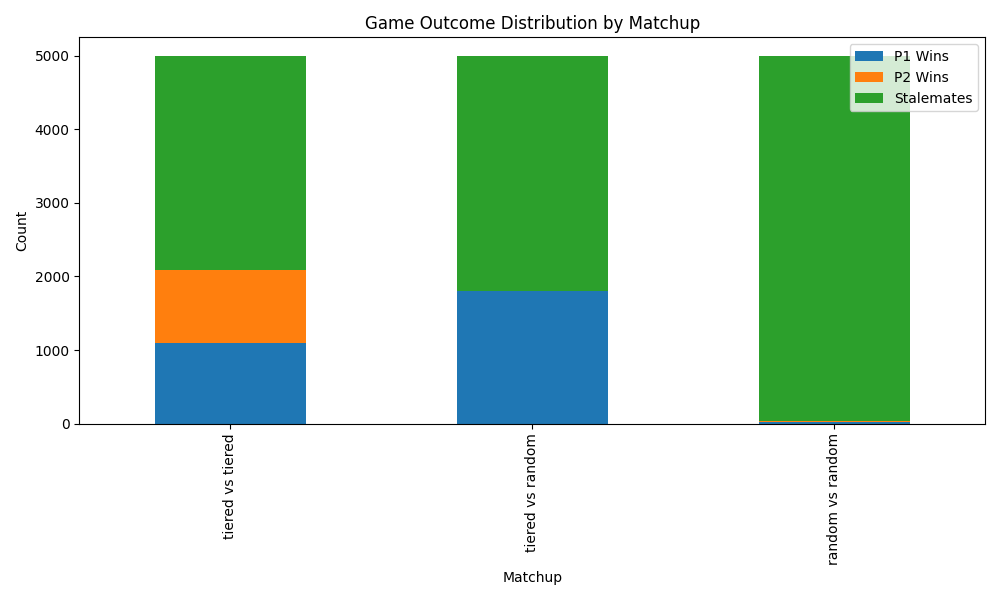
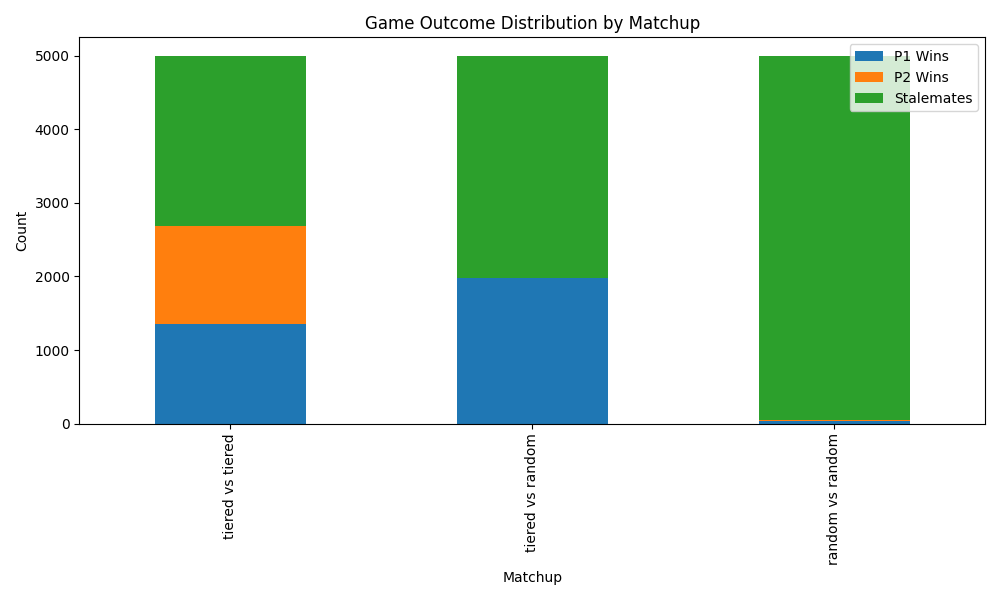
Update Volta ao Mundo simulation rules
- Reduced Orientação card count from 14 to 10.
- Removed requirement for Orientação to move generally (still needed for Perdido cure).
- Re-ran simulation and updated results/plots.
- Updated unit tests to verify new movement rules.

diff --git a/test_volta.py b/test_volta.py
@@ -8,84 +8,60 @@ class TestVoltaAoMundo(unittest.TestCase):
         self.game.p1.hand = []
         self.game.p2.hand = []
 
-    def test_hazard_application(self):
+    def test_movement_without_orientacao(self):
         p1 = self.game.p1
-        p2 = self.game.p2
+        p1.has_orientacao = False
+        p1.active_hazard = None
+        p1.defenses_active = []
 
-        p1.hand = ['Epidemia']
-        p2.hand = ['1000']
-        p2.defenses_active = []
+        # Should be able to move
+        self.assertTrue(self.game.can_move(p1))
 
-        # Manually invoke turn logic or helper if needed.
-        # But here we can simulate the attack logic by calling the method that handles it?
-        # The new code puts logic inside `take_turn`.
-        # We can test `take_turn` by setting up the state.
-
-        # P1 needs to choose attack.
-        # Tiered strategy: Defense > Cure > Orient > Travel > Attack.
-        # So P1 should attack if no other options.
-        # But P1 needs to draw. `take_turn` draws.
-        # We can mock `draw` to return None so hand doesn't change unexpectedly.
+        p1.hand = ['1000']
         self.game.draw = lambda: None
 
-        self.game.take_turn(p1, p2)
+        # Play 1000
+        self.game.take_turn(p1, self.game.p2)
 
-        self.assertEqual(p2.active_hazard, 'Epidemia')
+        self.assertEqual(p1.distance, 1000)
+
+    def test_perdido_stops_movement(self):
+        p1 = self.game.p1
+        p1.active_hazard = 'Perdido'
+        p1.has_orientacao = False
+
+        self.assertFalse(self.game.can_move(p1))
+
+        # Cure with Orientacao
+        p1.hand = ['Orientacao']
+        # Mock CURES logic in case needed? No, built-in.
+
+        self.game.draw = lambda: None
+
+        # play_cure('Orientacao') should happen
+        self.game.take_turn(p1, self.game.p2)
+
+        self.assertIsNone(p1.active_hazard)
+        # Should be able to move next turn
+        self.assertTrue(self.game.can_move(p1))
+
+    def test_other_hazard_stops_movement(self):
+        p1 = self.game.p1
+        p1.active_hazard = 'Epidemia'
+        self.assertFalse(self.game.can_move(p1))
 
     def test_strict_40k_rule(self):
         p1 = self.game.p1
         p2 = self.game.p2
-
         p1.distance = 38000
-        p1.has_orientacao = True
-        p1.active_hazard = None
-        p1.terrain = 'Civilizada'
-
-        # 3000 would exceed 40000 (38000 + 3000 = 41000) -> Should NOT play
-        # 2000 would fit exactly (40000) -> Should play
 
         p1.hand = ['3000']
         self.game.draw = lambda: None
 
-        # Tiered strategy should NOT play 3000 because it's not a legal move
-        # It should discard instead.
+        # Should discard
         self.game.take_turn(p1, p2)
-
         self.assertEqual(p1.distance, 38000)
-        self.assertEqual(len(self.game.discard), 1)
-        self.assertEqual(self.game.discard[0], '3000')
-
-        # Now give 2000
-        p1.hand = ['2000']
-        self.game.take_turn(p1, p2)
-        self.assertEqual(p1.distance, 40000)
-
-    def test_counter_attack_logic(self):
-        # We need to test if counter attack happens.
-        # P1 attacks P2. P2 has Defense.
-        p1 = self.game.p1
-        p2 = self.game.p2
-
-        p1.hand = ['Epidemia']
-        p2.hand = ['Saude'] # Defense for Epidemia
-        self.game.draw = lambda: None
-
-        # P2 is 'tiered', so `will_counter` is True.
-
-        # We need to mock P2's turn to prevent recursion loop or random actions
-        # But `take_turn` calls `self.take_turn(opponent, player)` for bonus turn.
-        # We can let it run once.
-
-        # To avoid infinite recursion if P2 draws/plays repeatedly, ensure deck is empty or mocked.
-        # Deck is already empty since `draw` returns None.
-
-        self.game.take_turn(p1, p2)
-
-        # P2 should have played Saude out of turn
-        self.assertIn('Saude', p2.defenses_active)
-        self.assertNotIn('Saude', p2.hand)
-        # P2 counter_attacks count should increase
-        self.assertEqual(p2.counter_attacks, 1)
+        self.assertEqual(self.game.discard[-1], '3000')
 
 if __name__ == '__main__':
     unittest.main()

diff --git a/volta_ao_mundo.py b/volta_ao_mundo.py
@@ -6,7 +6,7 @@ import seaborn as sns
 # --- GAME DATA & DEFINITIONS ---
 DECK_COMP_DICT = {
     '1000': 10, '2000': 10, '3000': 10, '4000': 12, '8000': 4,
-    'Orientacao': 14, 'Trabalho': 6, 'Fuga': 6, 'Remedio': 6,
+    'Orientacao': 10, 'Trabalho': 6, 'Fuga': 6, 'Remedio': 6,
     'Perdido': 5, 'Fim do Dinheiro': 3, 'Povos Hostis': 3, 'Epidemia': 3,
     'Civilizada': 5, 'Selvagem': 4, 'Mar': 4, 'Sem Recursos': 3,
     'Saude': 1, 'Diplomacia': 1, 'Riqueza': 1, 'Rotas Alternativas': 1
@@ -54,7 +54,7 @@ class VoltaAoMundoSim:
 
     def can_move(self, player):
         if player.active_hazard: return False
-        if not player.has_orientacao and 'Rotas Alternativas' not in player.defenses_active: return False
+        # Orientacao no longer required to move unless hazard specifically stops you (Perdido logic handled by active_hazard)
         return True
 
     def get_legal_moves(self, player, opponent):
@@ -65,8 +65,11 @@ class VoltaAoMundoSim:
         if player.active_hazard and CURES[player.active_hazard] in player.hand:
             moves.append(('cure', CURES[player.active_hazard]))
 
-        if not player.has_orientacao and not player.active_hazard and 'Rotas Alternativas' not in player.defenses_active:
-            if 'Orientacao' in player.hand: moves.append(('orientacao', 'Orientacao'))
+        # Still need Orientacao to cure Perdido, or if player wants to play it (maybe for points/discard/stats?)
+        # But strictly speaking, if not required for movement, is it playable as an action?
+        # Usually yes, as a "green card" action.
+        if 'Orientacao' in player.hand:
+            moves.append(('orientacao', 'Orientacao'))
 
         if self.can_move(player):
             allowed = TERRAIN_RULES[player.terrain]
